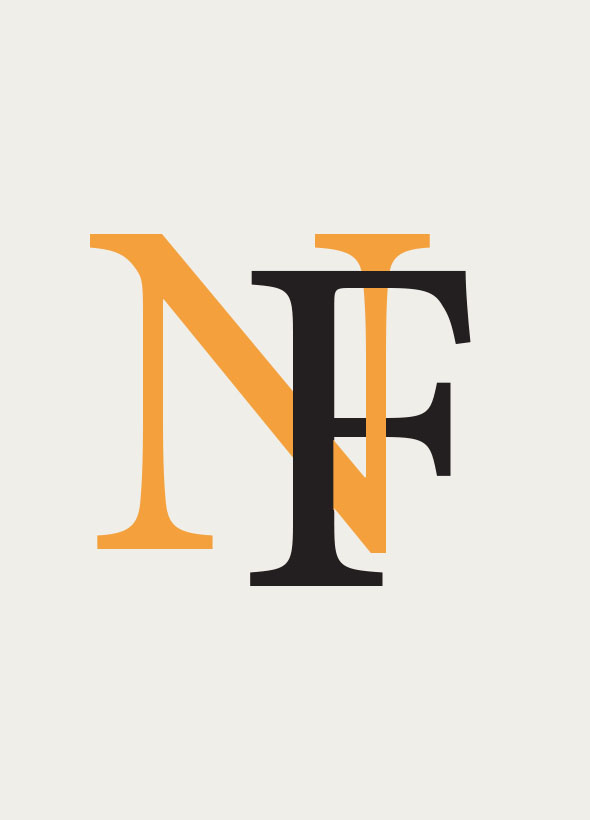
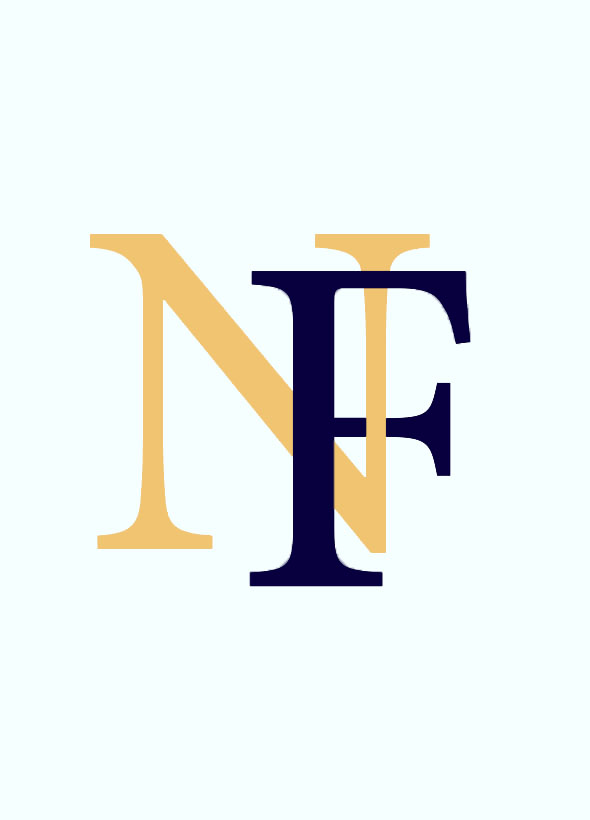
progress

Changed region(s): [[0.1525, 0.2744, 0.8237, 0.7317]]

diff --git a/Progress/HigherSurface_files/stylesrevO27-3.css b/Progress/HigherSurface_files/stylesrevO27-3.css
@@ -32,8 +32,8 @@ html {
 }
 
 body {
-  background: #f0eee9;
-  color: #291e22;
+  background: #ffffff;
+  color: #08003e;
   line-height: 1;
 }
 
@@ -118,7 +118,7 @@ select,
 table,
 textarea {
   font-family: "Open Sans", "Helvetica Neue", Verdana, Arial, sans-serif;
-  color: #f0eee9;
+  color: #ffffff;
   font-size: 14px;
   line-height: 1.5;
 }
@@ -194,7 +194,7 @@ ul {
 }
 .header-language-container,
 .page-header {
-  background-color: #f0eee9;
+  background-color: #ffffff;
 
 }
 
@@ -247,7 +247,7 @@ ul {
 }
 .page-header-container .store-language-container label,
 .page-header-container .store-language-container .switch-wrapper {
-  color: #291e22;;
+  color: #08003e;;
   font-size: 13px;
   font-weight: normal;
 }
@@ -257,7 +257,7 @@ ul {
 }
 
 .page-secondary-header {
-  background: #f4a13d;
+  background: #f0c471;
 }
 .page-secondary-header .col-33 {
   padding: 10px 0;
@@ -269,7 +269,7 @@ ul {
   text-transform: uppercase;
 }
 .page-secondary-header .col-33 a:hover {
-  color: #f0eee9;
+  color: #ffffff;
 }
 .page-secondary-header .middle {
   text-align: center;
@@ -290,7 +290,7 @@ ul {
 }
 .header-language-background,
 .header-language-background a {
-  color: #291e22;;
+  color: #08003e;;
 }
 
 @media only screen and (max-width: 770px) {
@@ -313,7 +313,7 @@ ul {
 
 @media only screen and (max-width: 770px) {
   .skip-links {
-    background: #291e22;
+    background: #08003e;
     padding: 10px 0;
     float: none;
     clear: both;
@@ -330,7 +330,7 @@ ul {
 .skip-link {
   position: relative;
   height: auto;
-  color: #291e22;;
+  color: #08003e;;
   line-height: 22px;
   text-align: center;
 }
@@ -342,7 +342,7 @@ a.skip-link {
 }
 
 .skip-link:not(.skip-active):hover {
-  color: #291e22;
+  color: #08003e;
 }
 
 .icon:hover {
@@ -400,7 +400,7 @@ a.skip-link {
   .nav-primary a.level0 {
     padding: 0 15px 0 25px;
     text-align: left;
-    color: #f0eee9;
+    color: #ffffff;
     text-transform: uppercase;
     line-height: 30px;
   }
@@ -428,7 +428,7 @@ a.skip-link {
 
 .skip-nav .label {
   display: inline;
-  color: #f0eee9;
+  color: #ffffff;
   font-size: 16px;
 }
 
@@ -457,14 +457,14 @@ a.skip-link {
  * Nav - Skip Content
  * ============================================ */
 #header-nav .nav-primary ul.level1 {
-  background: #f0eee9;
+  background: #ffffff;
   border: none;
 }
 #header-nav .nav-primary ul.level1 li.heading {
   font-weight: normal;
   letter-spacing: 0.1px;
   text-decoration: underline;
-  color: #291e22;;
+  color: #08003e;;
   margin-top: 10px;
 }
 #header-nav .nav-primary ul.level1 li.heading.first {
@@ -474,7 +474,7 @@ a.skip-link {
   font-weight: 300;
 }
 #header-nav .nav-primary li.level2 a:hover {
-  color: #291e22;
+  color: #08003e;
 }
 
 .logo {
@@ -501,13 +501,13 @@ a.skip-link {
 
 @media only screen and (max-width: 770px) {
   #header-nav {
-    background: #291e22;
+    background: #08003e;
     margin: 0;
     padding-bottom: 8px;
     width: 100% !important;
   }
   #header-nav .nav-primary ul.level1 {
-    background: #291e22;
+    background: #08003e;
     height: auto;
     width: auto;
     padding: 0;
@@ -517,17 +517,17 @@ a.skip-link {
     padding: 0 0 0 40px;
   }
   #header-nav .nav-primary li.level2 a {
-    color: #f0eee9;
+    color: #ffffff;
     line-height: 30px;
     padding-left: 0;
   }
   #header-nav .nav-primary li.level2 a:hover {
     background-color: transparent;
-    color: #f0eee9;
+    color: #ffffff;
   }
   #header-nav .nav-primary ul.level1 li.heading {
     font-size: 16px;
-    color: #f0eee9;
+    color: #ffffff;
   }
   #header-nav .nav-primary ul.level1 li.heading.first {
     margin-top: 10px;
@@ -655,7 +655,7 @@ a.skip-link {
   border-radius: 3px;
   font-size: 14px;
   text-align: center;
-  color: #f0eee9;
+  color: #ffffff;
   text-decoration: none;
   box-sizing: content-box;
 }
@@ -692,7 +692,7 @@ a.skip-link {
 }
 
 .swatch-label {
-  border: 1px solid #f0eee9;
+  border: 1px solid #ffffff;
   margin: 0;
   white-space: nowrap;
   background: #F4F4F4;
@@ -728,7 +728,7 @@ a.skip-link {
 }
 .configurable-swatch-list .not-available .swatch-label {
   color: #aaa;
-  background: #f0eee9;
+  background: #ffffff;
 }
 .configurable-swatch-list .wide-swatch .swatch-label {
   padding: 0 6px;
@@ -751,7 +751,7 @@ a.skip-link {
   line-height: inherit;
 }
 #narrow-by-list dd .swatch-link:hover .swatch-label {
-  border-color: #f0eee9;
+  border-color: #ffffff;
 }
 #narrow-by-list dd .swatch-label {
   background: #F4F4F4;
@@ -765,7 +765,7 @@ a.skip-link {
   white-space: nowrap;
 }
 #narrow-by-list dd .swatch-label img {
-  border: 1px solid #f0eee9;
+  border: 1px solid #ffffff;
   border-radius: 3px;
   box-sizing: content-box;
 }
@@ -804,7 +804,7 @@ a.skip-link {
 .configurable-swatch-list .hover .swatch-link,
 .configurable-swatch-list .selected .swatch-link,
 .swatch-link:hover {
-  border-color: #f0eee9;
+  border-color: #ffffff;
 }
 
 .configurable-swatch-box {
@@ -818,7 +818,7 @@ a.skip-link {
   background: #DF280A;
   padding: 5px 5px !important;
   font-weight: bold;
-  color: #f0eee9 !important;
+  color: #ffffff !important;
   float: left;
   display: block;
   border-radius: 3px;
@@ -885,18 +885,18 @@ a.skip-link {
 .herher {position: relative; top:02px;}
 
 
-h1 {font-size: 40pt; font-family: sans-serif!important; color: #f4a13d; position: relative;
+h1 {font-size: 40pt; font-family: sans-serif!important; color: #f0c471; position: relative;
     top: -10px; max-width: 90%; text-align: center;     letter-spacing: 3px;  text-transform: uppercase;}
 
-.h2 {font-size: 40pt; font-family: sans-serif!important; color: #291e22; position: relative;
+.h2 {font-size: 40pt; font-family: sans-serif!important; color: #08003e; position: relative;
     top: -10px; max-width: 90%; text-align: center;     letter-spacing: 3px; }  
 
-.h4 {font-size: 40pt; font-family: sans-serif!important; color: #f0eee9; position: relative;
+.h4 {font-size: 40pt; font-family: sans-serif!important; color: #ffffff; position: relative;
     top: -10px; max-width: 90%; text-align: center;     letter-spacing: 3px;}         
 
 p {      font-size: 20pt;
     font-family: min;
-    color: #f0eee9;
+    color: #ffffff;
     position: relative;
     top: -10px;
      padding-left: 30px;
@@ -910,7 +910,7 @@ p {      font-size: 20pt;
 
 .type {      font-size: 20pt;
     font-family: min;
-    color: #f4a13d;
+    color: #f0c471;
     position: relative;
     top: -10px;
     max-width: 90%;
@@ -924,7 +924,7 @@ p {      font-size: 20pt;
 
 .type2 {      font-size: 20pt;
     font-family: min;
-    color: #291e22;
+    color: #08003e;
     position: relative;
     top: -10px;
     max-width: 90%;
@@ -941,13 +941,13 @@ a {text-decoration: none; }
 
 
 
- body{background-color: #291e22;     }
+ body{background-color: #08003e;     }
 
 
 
 
 
-.d2 {background-color: #f0eee9;
+.d2 {background-color: #ffffff;
     width: 100%;
     position: relative;
     right: 0%;
@@ -961,7 +961,7 @@ a {text-decoration: none; }
     right: 0%;
    font-weight: normal!important;}
 
-.d4 {background-color: #f4a13d;
+.d4 {background-color: #f0c471;
     width: 100%;
     position: relative;
     right: 0%;

diff --git a/Progress/progress.html b/Progress/progress.html
@@ -820,7 +820,6 @@ The cult of the goddess Moneta was established largely under the influence of Gr
 The epithet Moneta given to Juno more likely derives from the Greek word "moneres" ("μονήρης") and means "alone, unique". By Andronicus' age, the folk-etymology deduction from monēre prevailed, and so he could transform this epithet into a separate goddess, the literary (but not religious) counterpart of Greek Mnemosyne.</p>
 <br><br><br><br>
 <img src="http://www.crystalinks.com/JunoStatue.jpg"width="25%"><br><br><br><br>
-
 <h1 class="">Moneta's Box</h1><br><br><br><br>
 
 <p>Inspired by Pandora's Box: a process that once begun generates many complicated problems. Pandora was a Greek Goddess: The "box" was actually a large jar given to Pandora which contained all the evils of the world. Pandora opened the jar and all the evils flew out, leaving only "Hope" inside once she had closed it again.
@@ -828,9 +827,22 @@ The epithet Moneta given to Juno more likely derives from the Greek word "monere
 Today the phrase "to open Pandora's box" means to perform an action that may seem small or innocent, but that turns out to have severely detrimental and far-reaching negative consequences. The action cannot be reversed.<br><br>
 </p>
 
+<img src="./img/pallet29.png" width="25%">&nbsp;  &nbsp;  &nbsp;  &nbsp;  &nbsp;
+<img src="./img/pallet28.png" width="25%">&nbsp;  &nbsp;  &nbsp;  &nbsp;  &nbsp;
+<img src="./img/pallet30.png" width="25%"><br><br><br><br>
+
+<br><br><br><br>
+
+
+<h1 class="">Juno</h1><br><br><br><br>
+
+
+<p class="">In Roman mythology, Moneta (Latin Monēta) was a title given to two separate goddesses: the goddess of memory (identified with the Greek goddess Mnemosyne) and an epithet of Juno, called Juno Moneta (Latin Iūno Monēta). The latter's name is source of numerous words in English and the Romance languages, including the words "money" and "mint".
+<br><br> Initially hesitant to call the app Juno because of a film I dislike with the same title, I reluctantly excepted that it is short, sweet, catchy, playful and has meaning behind it. This is a lot cleaner then Moneta's Box.
+
 
 <br><br><br><br><br><br><br><br>
-
+juno1.svg
 <img src="https://media.giphy.com/media/h9FPJ4PMvNRRK/giphy.gif" width="100%"><br><br><br><br>
 <br><br><br><br><br><br><br><br><br><br><br><br><br><br><br><br><br><br><br><br></div>
 </body>
